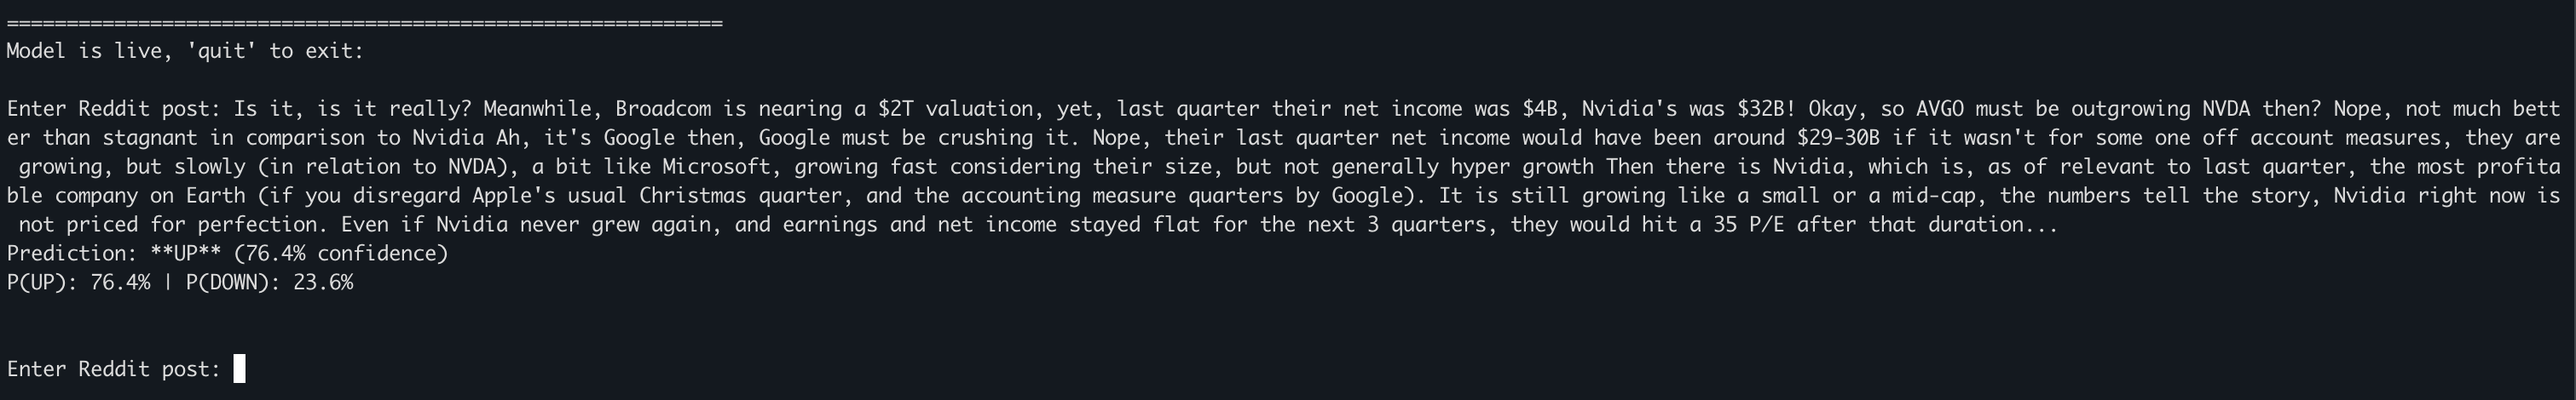
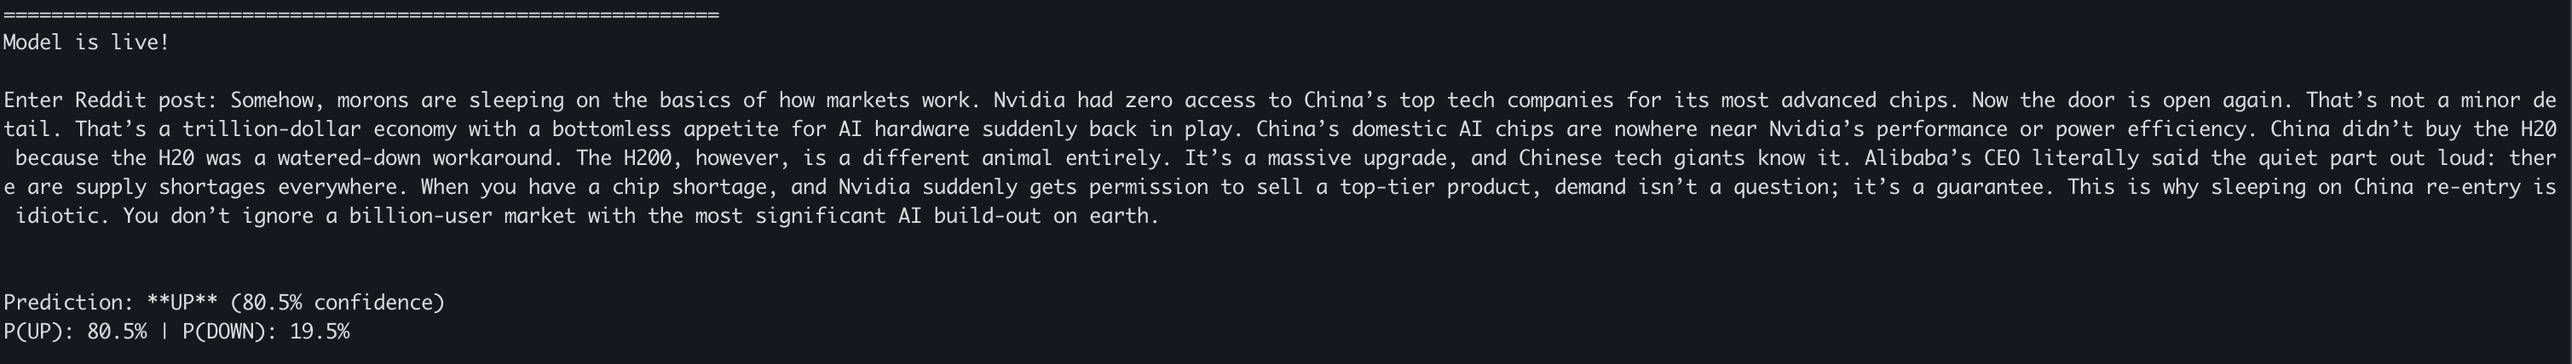
fix prompt and screenshot

diff --git a/predict.py b/predict.py
@@ -43,11 +43,12 @@ def predict_stock_movement(text):
     }
 
 print("\n" + "="*60)
-print("Model is live, 'quit' to exit:")
+print("Model is live!")
 while True:
     text = input("\nEnter Reddit post: ")
-    if text.lower() in ['quit', 'exit', 'q']:
+    if text.lower() == "exit":
         break
     result = predict_stock_movement(text)
+    print("\n")
     print(f"Prediction: **{result['prediction']}** ({result['confidence']:.1%} confidence)")
     print(f"P(UP): {result['prob_up']:.1%} | P(DOWN): {result['prob_down']:.1%}\n")
